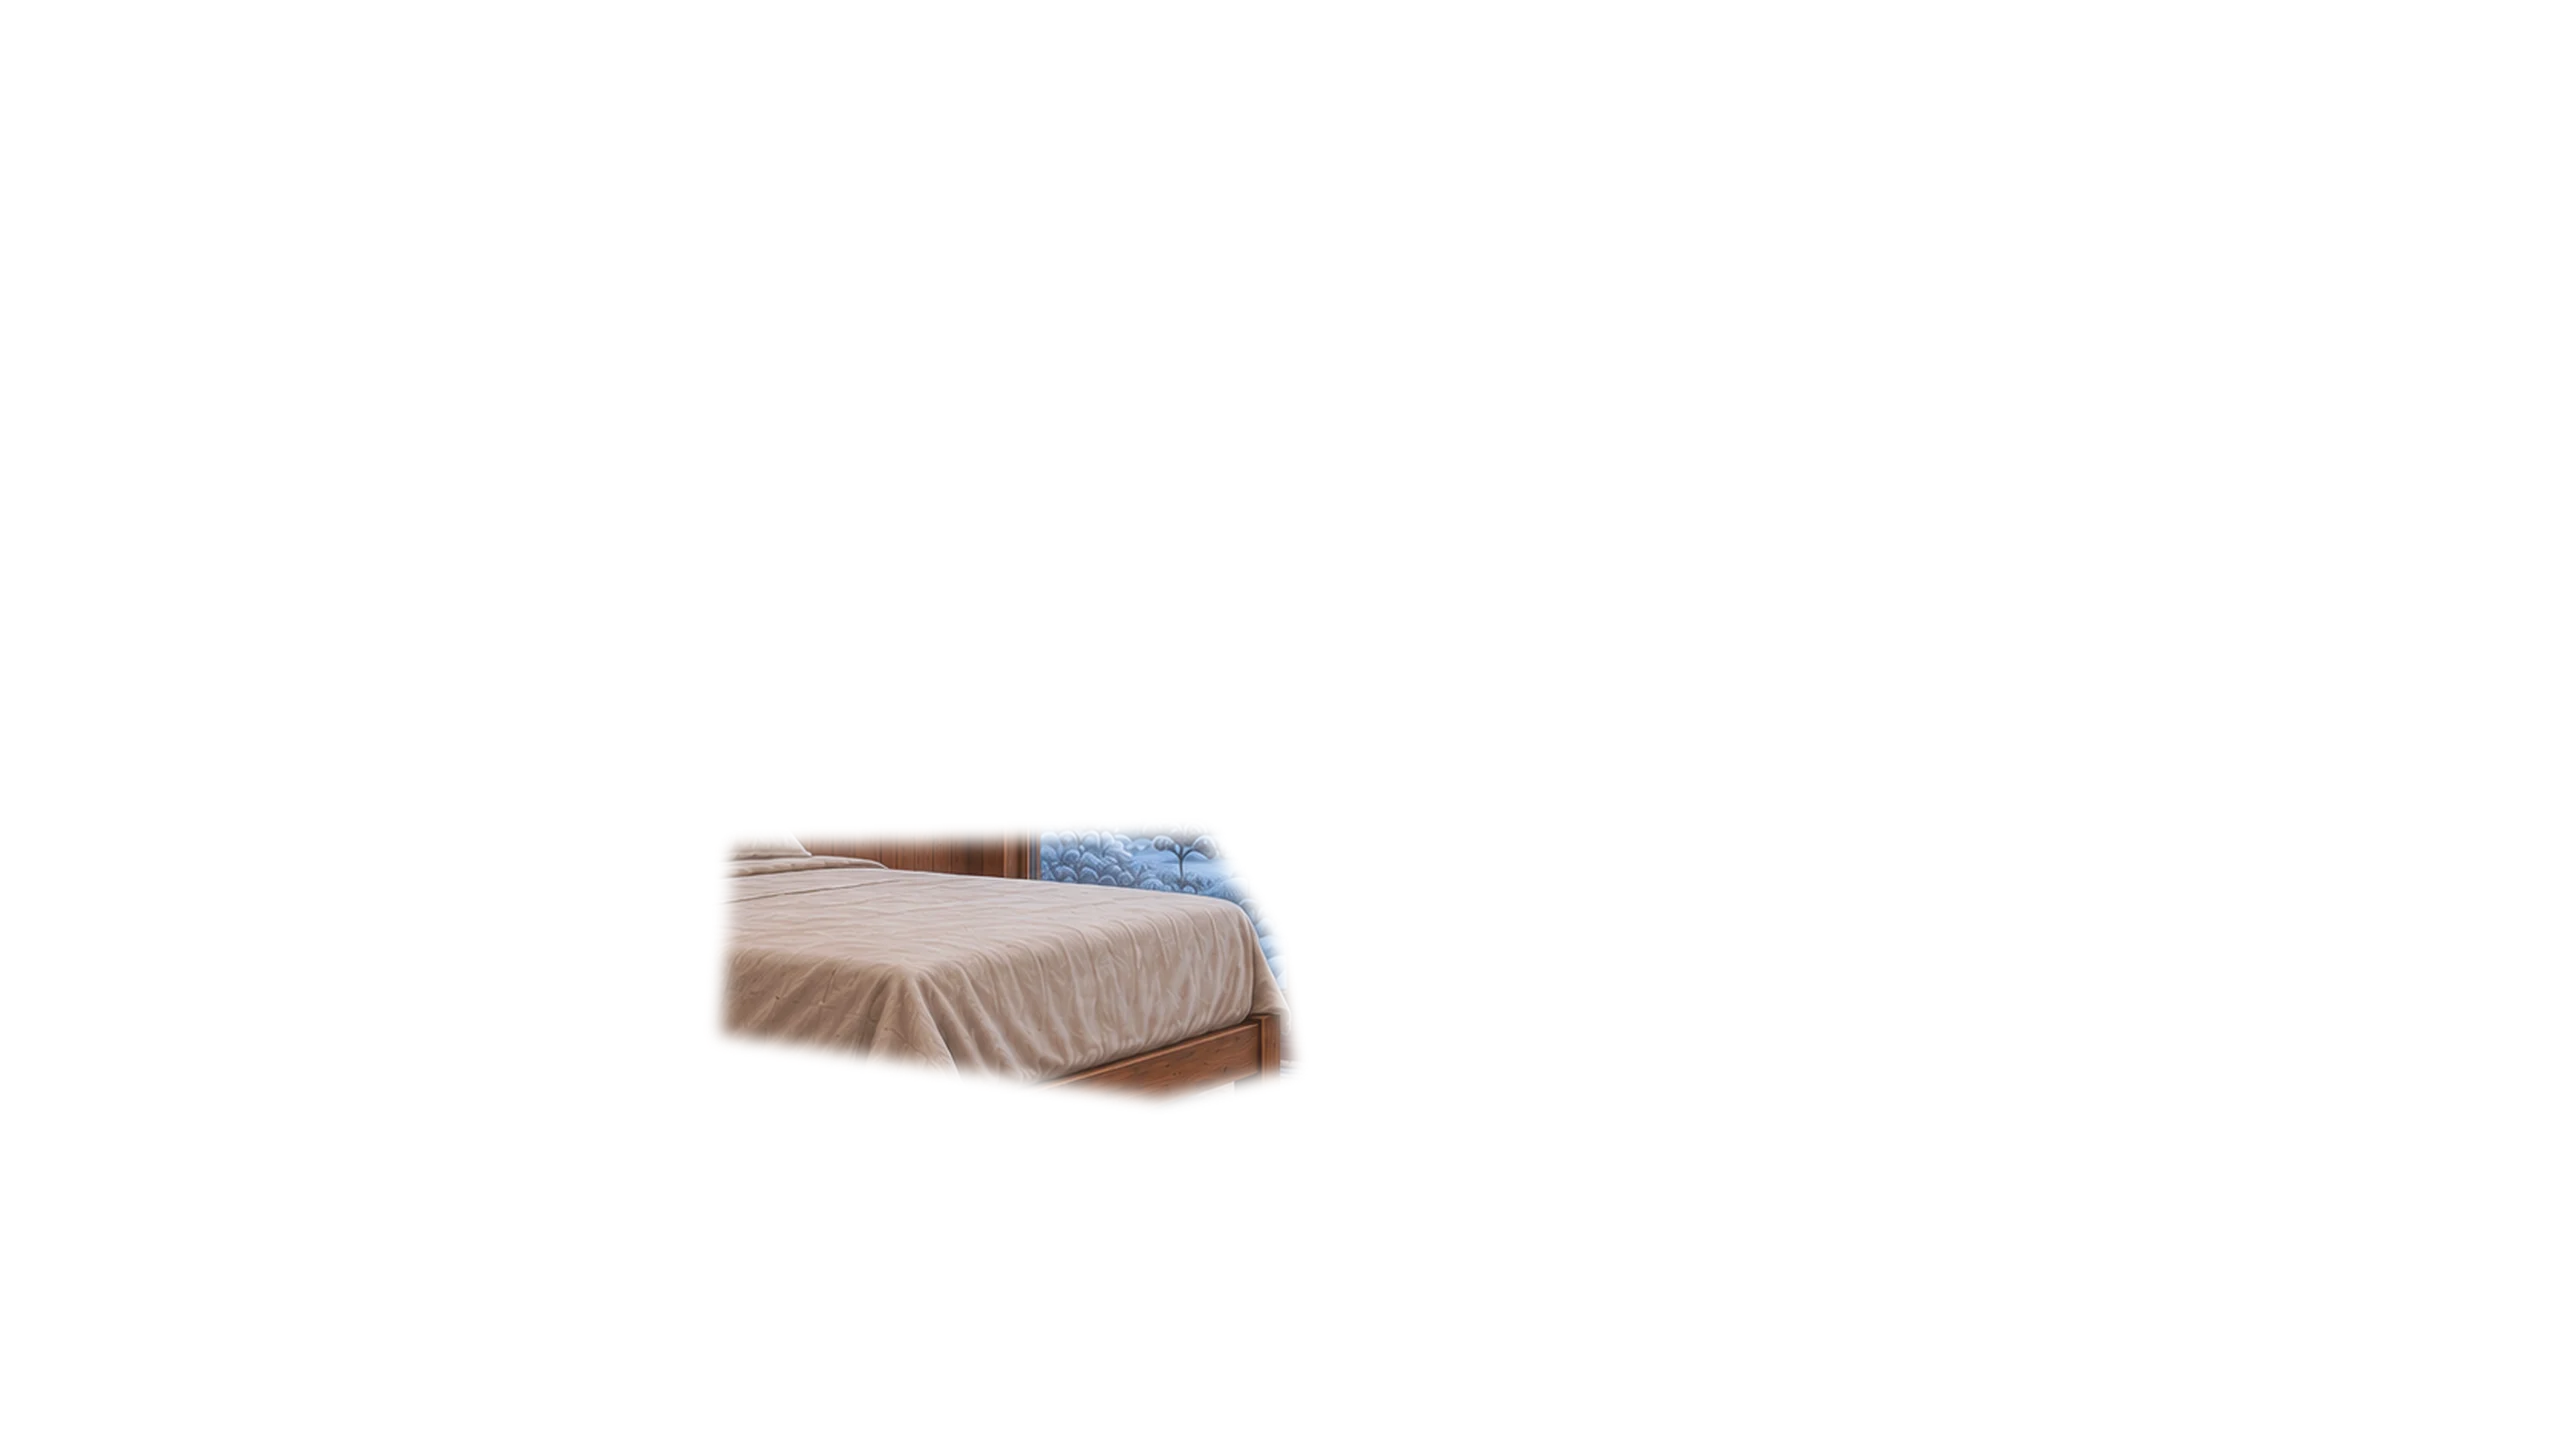
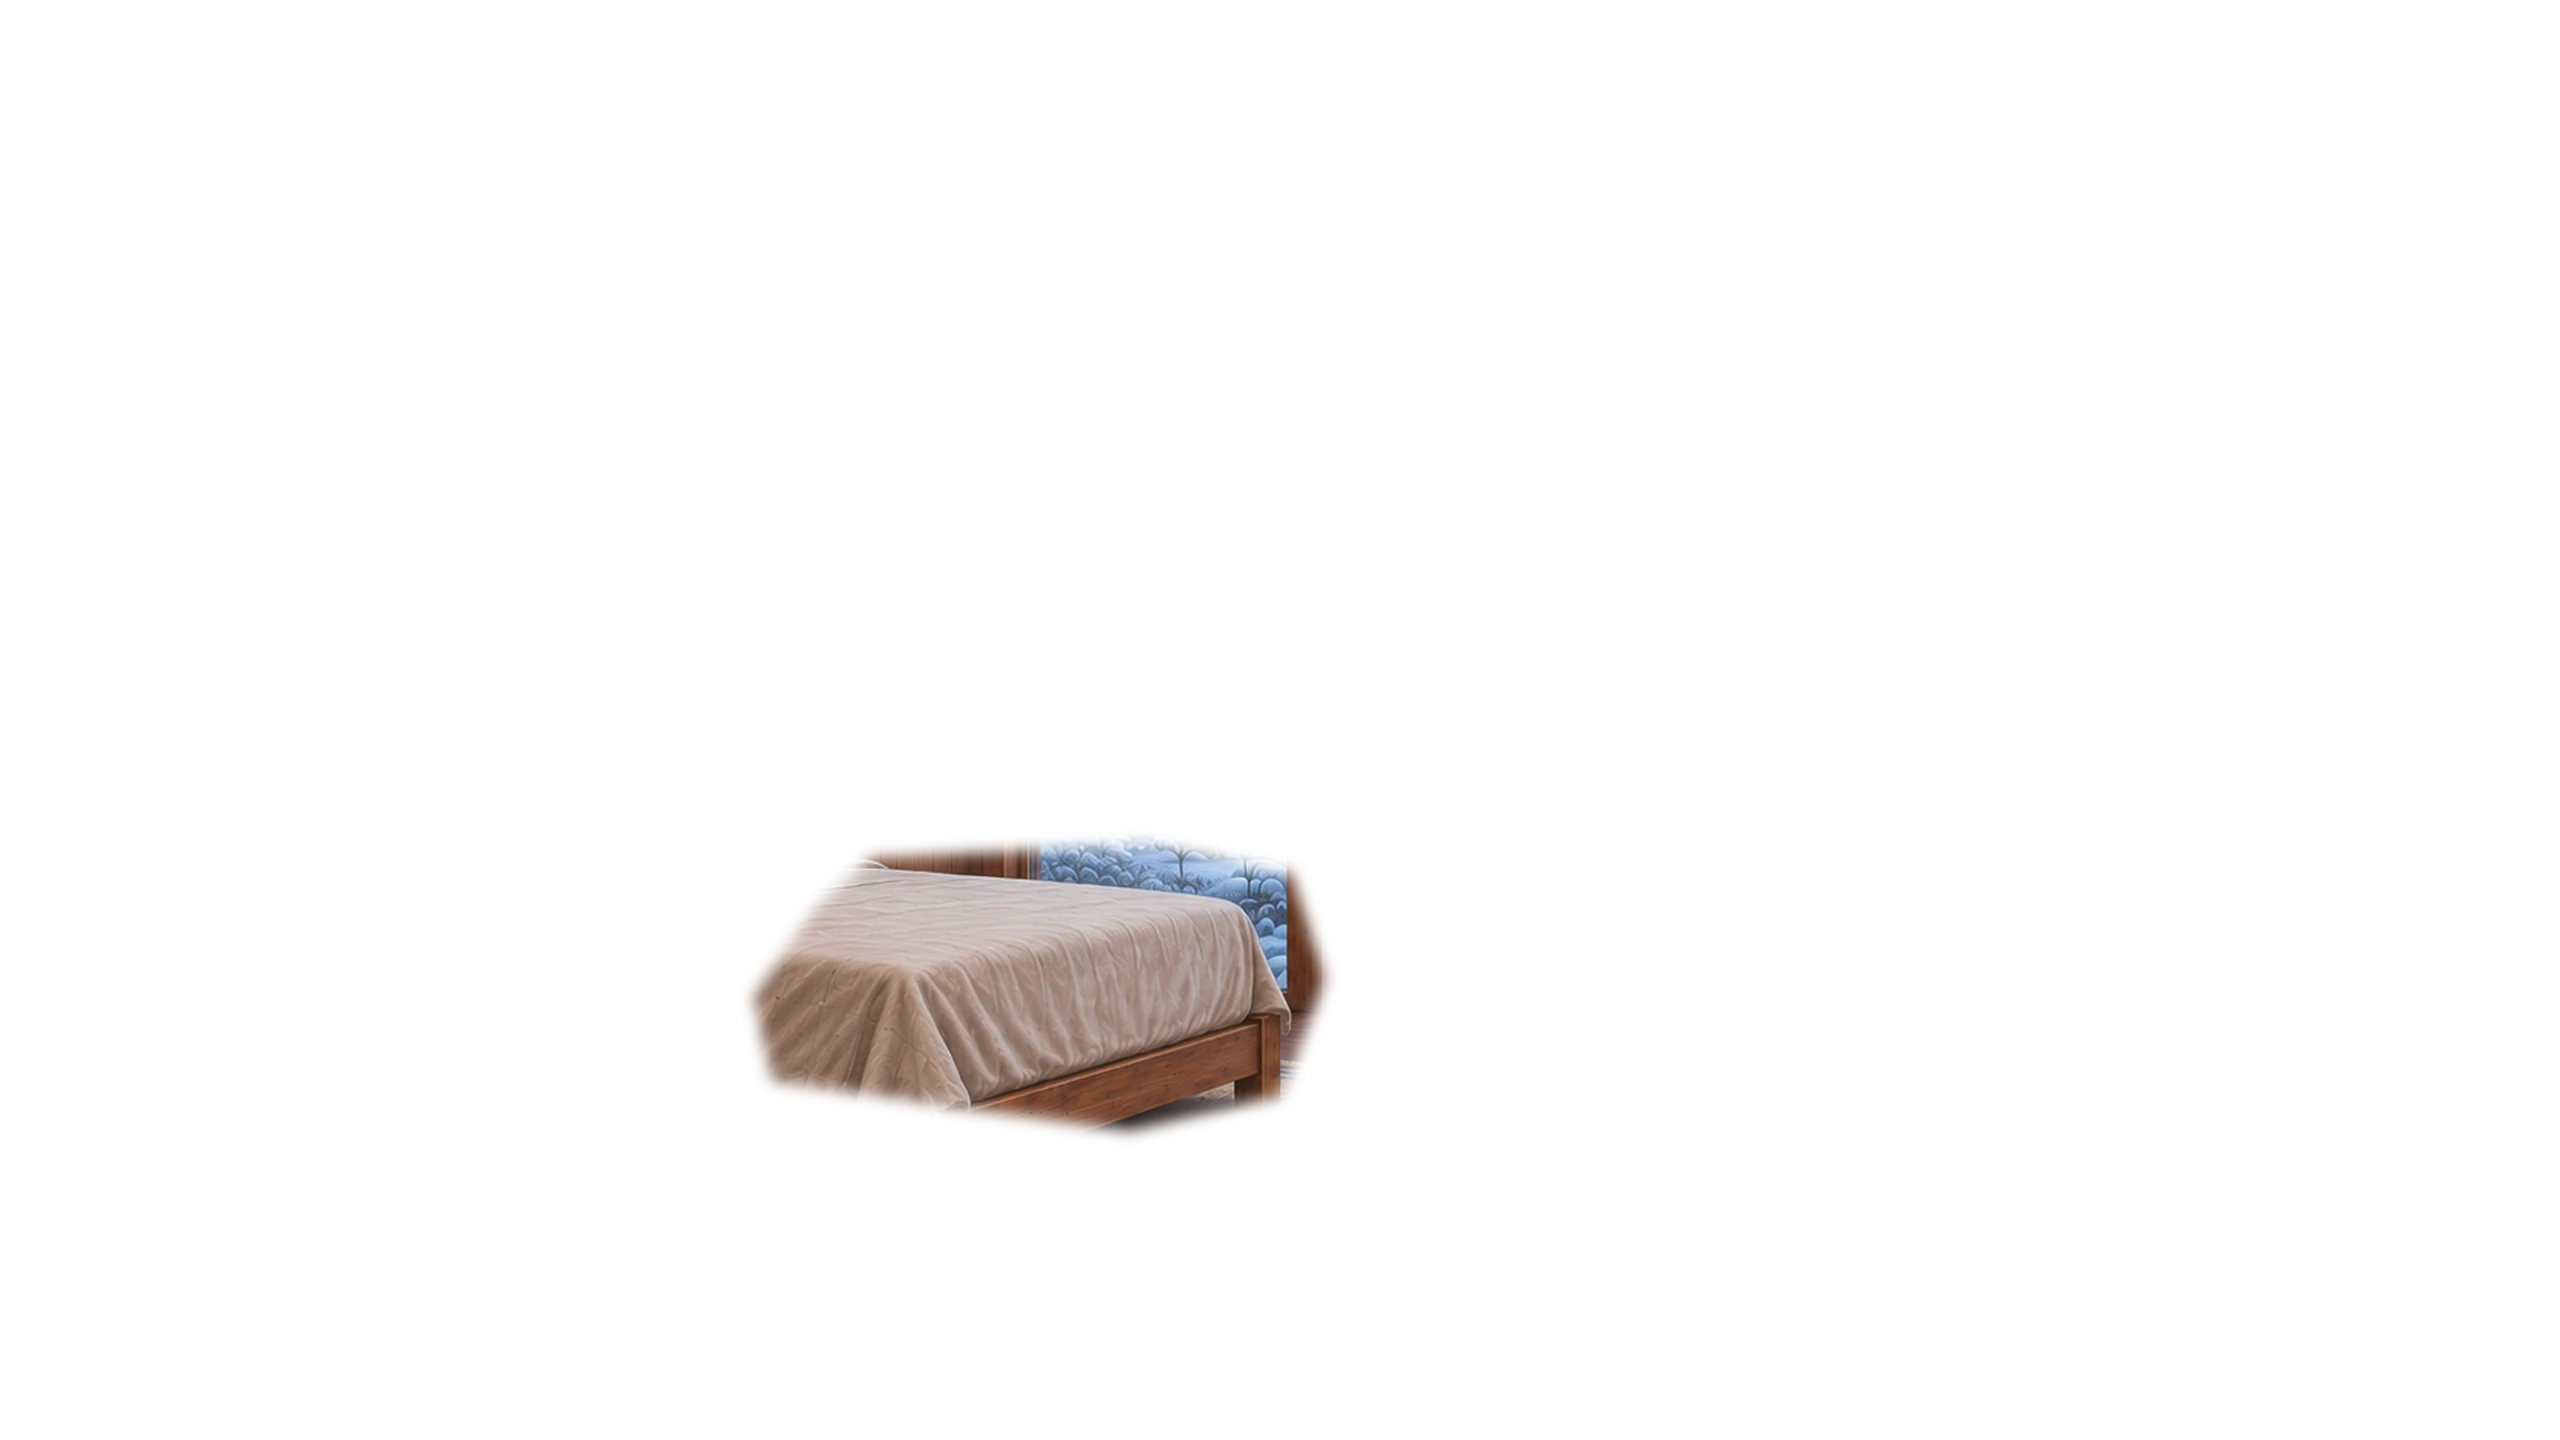
fix(05): repair bedroom duvet occlusion and unify all canvas coordinates

Changed region(s): [[0.2812, 0.5625, 0.5312, 0.8125]]

diff --git a/assets/05/rooms/g5_20261115/validate.py b/assets/05/rooms/g5_20261115/validate.py
@@ -11,6 +11,18 @@ assert list(c['rooms'])==rooms, 'room order changed'
 assert c['canvas']==[2560,1440]
 assert c['architecture']['defaultSelectedRoom']=='observation_room'
 assert c['architecture']['kitchenBackDoorAndCoveredWalkwaySameOpening'] is True
+assert c['coordinateSystem'].startswith('all x/y in published 2560x1440')
+assert not any('anchors_' in key for key in m), 'manifest must not contain duplicate site anchors'
+for rid, room in c['rooms'].items():
+ for window in room['windows']:
+  assert window['coordinateSystem']=='2560x1440 canvas pixels'
+  for polygon in window['panesCanvasPolygons']:
+   assert len(polygon)>=3
+   for x,y in polygon:assert 0<=x<=2560 and 0<=y<=1440,(rid,x,y)
+for name, loc in c['locations'].items():
+ if loc['room'] is not None:
+  assert loc['standingHeightPx']==round(345+.28*loc['footAnchor'][1]),name
+  assert bool(loc.get('facing')) and isinstance(loc.get('occludedBy'),list),name
 assert len([x for rm in c['rooms'].values() for x in rm['displaySlots']])==6
 assert len([x for x in c['locations'].values() if x['room'] is not None])==16
 assert len(m['binary'])>=76,'missing binary layers'
@@ -38,5 +50,10 @@ for room in rooms:
 assert c['locations']['springhouse']['room'] is None
 assert c['locations']['cellar']['room'] is None
 assert (R/'bedroom/bed_front_occlusion.webp').exists()
+assert (R/'bedroom/bed_front_occlusion.webp').stat().st_size>100_000, 'use actual fabric instead of stripe mock'
+occlusion=Image.open(R/'bedroom/bed_front_occlusion.webp').convert('RGBA')
+actor=Image.open(R/'bedroom/actor_male_pose.webp').convert('RGBA')
+assert actor.getchannel('A').getpixel((730,790))>0
+assert occlusion.getchannel('A').getpixel((1050,1000))>100
 assert (R/'hearth_room/fire_flame_high.webp').exists()
 print('PASS: 4 scenes / 2560×1440 / SHA / alpha glass / local lights / unified weather / 6 displays / 16 interior locations / 4 poses')

diff --git a/设计/讨论记录/2026-11-15_R1-R7四间底图分层修订交接_GPT.md b/设计/讨论记录/2026-11-15_R1-R7四间底图分层修订交接_GPT.md
@@ -40,3 +40,10 @@
 - 通过 GitHub Git Tree/文件大小检查确认所有新文件已经上分支；不合入 `main`，交 Claude 审核。
 - 本轮仅阶段性的几何抠图/程序化状态摆件：**正式原生高清重绘、窗框逐像素修复、独立晴空、仪器暖炉真实无火状态、灯光艺术级精修、男主角多帧 G8 动作、真实 Snapshot 渲染和自动真机截图仍未完成。**
 
+
+## 中断续做补丁（GPT，2026-11-15）
+- GitHub 分支核对：PR #4 已合入 `main`；本轮 R1–R7 的 15 个提交已在 `gpt/05-four-room-r1-r7-layers-20261115`，不重复传整套图片。
+- 更换卧室 `bed_front_occlusion.webp`：用已确认的薄床褥原画局部作为前景，替换旧的格纹条状遮挡。角色头脸露出、躯干回到被下；并不假装已拥有高质量原生睡眠动作。
+- 新增 `validate.py` 的睡姿遮挡像素验证；本地 81 份图层、SHA-256、窗洞透明度、四间统一天气、六个展示位、16 个室内站位及 2 个室外地点检查通过。
+- `room_locations.json` 里每扇窗的多边形从旧原始画布数值一次性换算成 2560×1440，所有站位补全站立高度，保留 `设计/原型/` 的已弃用重定向文件（不保留双重可用坐标）。
+- **仍待审查**：卧室被褥的细节接缝、G5 原生像素画、G8 多姿态分帧、灯光艺术化及基于真实 Snapshot 的小窗渲染；本轮不声称最终合格。

diff --git a/assets/05/rooms/g5_20261115/README.md b/assets/05/rooms/g5_20261115/README.md
@@ -22,3 +22,5 @@
 4. 同一天气事件由同一套雪粒参数驱动，但每间原画窗外背景里仍烘焙了一些零星雪花；“calm”是无新增雪粒而不是晴天完全无雪的最终素材。
 5. 男性四姿态能在各房小窗看到，仍是单帧试摆，不是 G8 已通过的多动作、多朝向独立精灵；卧室使用从已批准插画提取的薄被前景遮挡。
 6. 自动截图、游戏内部 Snapshot 接入与真实可见率仍由 Claude 后续复核；本轮不碰 `game/`、06、00、HANDOFF、01–03。
+
+**中断续做修正（2026-11-15）**：卧室 `bed_front_occlusion.webp` 已从现有薄床褥画面取样替换原来不自然的格纹条状遮挡；属于可审阅的 G8 姿态试摆，人物面部/被角仍需精修。四间窗片坐标统一换算成发布画布 2560×1440，唯一真源继续是 `room_locations.json`。`manifest.json` 已同步更新该二进制的 SHA-256。
